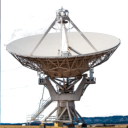
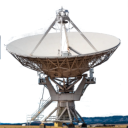
the author took a fringe off the dish, and the three sizes they exported are installed unaltered
The satellite icon at 128, 256 and 512 was re-exported on 2026-08-31 with a soft
halo around the edges of the dish removed. Those three files are copied in with
`cp` -- into icon_artwork/, which is where their exports live, and into
icons/hicolor/{128,256,512}/apps/org.satellite.terminal.png, which is what an
install puts on the desktop. Byte-for-byte, verified with cmp against the source
in both places.

16 THROUGH 64 ARE LEFT ALONE AND THE SET IS NOW DELIBERATELY NOT ONE EXPORT.
Those sizes still come from icon_artwork/satl-app-icon/, the older line with the
fringe still in it. Bringing them over would mean downscaling the new 512 into
six sizes nobody exported, which is generating artwork on the author's behalf --
their call, and they made it: large sizes only. A de-blurred export at 64 and
below is theirs to produce.

LAYOUT.md SAYS SO IN THE THREE PLACES A READER WOULD OTHERWISE GUESS WRONG: the
apps/ row, which now has two sources; the satellite_icon_* row; and the
satl-app-icon row, which is no longer the source of the whole set. Without that,
the next person to touch these files reads one directory and concludes the other
six sizes came from it.

AND icon_artwork's "byte-for-byte" IS RESTATED AS A RULE RATHER THAN A
DESCRIPTION. It already said "nothing here should be re-encoded"; what it did not
say is why, which is that these are somebody's exports and re-encoding one
replaces their work with a guess about their work.
[…]

Changed region(s): [[0.0, 0.4688, 0.0312, 0.9688], [0.0, 0.0, 0.0312, 0.2812]]

diff --git a/LAYOUT.md b/LAYOUT.md
@@ -326,19 +326,41 @@ Eighteen files. The two basenames are the two names a desktop looks up, and neit
 may drift: `org.satellite.terminal` matches the GApplication id and the `.desktop`
 filename, and `application-x-satellite` is the mime type with `/` replaced by `-`.
 
+**The nine `apps/` files come from TWO sources since 2026-08-31 and that is worth
+knowing before editing any of them.** 128, 256 and 512 are
+`icon_artwork/satellite_icon_{128,256,512}.png`, byte-for-byte — the author
+re-exported those three that day with a soft fringe around the dish removed, and
+they were copied in unaltered. 16, 22, 24, 32, 48 and 64 are still the older
+`icon_artwork/satl-app-icon/satl-icon-*.png` line, also byte-for-byte at 64 and
+downscaled below it. **So the set is deliberately not one export**: the large
+sizes are the corrected artwork and the small ones are what they always were,
+which is the scope the author chose rather than have anything generated on their
+behalf. Bringing the small sizes over needs a de-blurred export at those sizes,
+and it is theirs to make.
+
+**The `mimetypes/` nine are untouched by that** and all nine still come from
+`icon_artwork/file_icon_final/` — a different image with its own history.
+
 ### `icon_artwork/` — source, never installed
 
 The user's own exported work, copied byte-for-byte from the first satellite.
 Nothing here is installed and nothing here should be re-encoded.
+
+**Byte-for-byte is a rule and not a description**, and it is the one thing about
+this directory a reader has to take literally: these are somebody's exports, and
+re-encoding one — scaling it, stripping a chunk, "cleaning it up" — replaces
+their work with a guess about their work. When the author updated three of them
+on 2026-08-31 the update was `cp`, and the sizes they did not update were left
+alone rather than derived from the ones they did.
 
 | file | what it is |
 | --- | --- |
 | `for_redo/satellite-icon.xcf` | The editable GIMP source for the satellite icon. |
 | `satellite-icon.avif` | The icon as exported to AVIF. |
 | `5829875.png` | The original photograph the satellite icon was cut from. |
-| `satellite_icon_{64,128,256,512}.png` | The satellite icon at four sizes. |
+| `satellite_icon_{64,128,256,512}.png` | The satellite icon at four sizes. **128, 256 and 512 were re-exported 2026-08-31** with the fringe around the dish removed, and are the installed `apps/` icons at those sizes. The 64 is the older export. |
 | `scaled/satellite-icon-{64,128,256,512}.png` | A scaled set of the same. |
-| `satl-app-icon/satl-icon-{64,128,256,512}.png` | The app-icon variant at four sizes. |
+| `satl-app-icon/satl-icon-{64,128,256,512}.png` | The app-icon variant at four sizes — the same image as `satellite_icon_*` with the older fringe, exported separately. **It is the installed `apps/` icon at 64 and below only**, since 2026-08-31; see the note above the `icon_artwork` heading. |
 | `file_icon/352-3528073_piece-paper-frames-illustrations-piece-of-paper-icon.jpg` | The stock sheet-of-paper image the file icon was built from. |
 | `file_icon/file-icon.png`, `file_icon/file-icon-512.png` | Intermediate file-icon work. |
 | `file_icon_final/final_file_icon_{64,128,256,512}.png` | The finished file icon at four sizes. |
